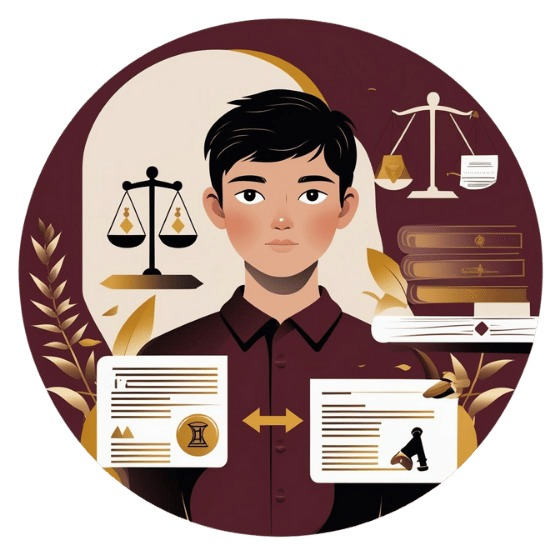
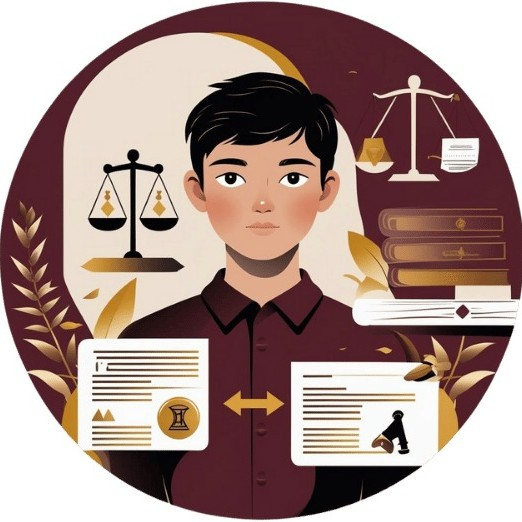
ajuste de layout dos temas 1 , 2 e 3
ajuste de layout das telas dos temas 1 , 2 e 3

diff --git a/screens/telasTemas/secondScreen/QuizCasamento.js b/screens/telasTemas/secondScreen/QuizCasamento.js
@@ -143,7 +143,10 @@ const QuizCasamentoScreen = ({ navigation}) => {
     }
 
     // Junta a análise com o resumo checklist
-    setResultado(resultadoFinal + "\n\n📋 Resumo:\n" + resumo.join("\n"));
+    setResultado({
+      titulo: resultadoFinal, // título principal
+      resumo: resumo,         // lista de itens
+    });
   };
 
 
@@ -156,7 +159,7 @@ const QuizCasamentoScreen = ({ navigation}) => {
       {!finalizado ? (
         <View>
           <Text style={styles.homeTitle}>Teste de reconhacimento para casamento</Text>
-          <View style={styles.card}>
+          <View style={styles.card1}>
             <Image source={require('../../../assets/guiaCasamento/guiaCasamento.png')} style={styles.imagem1} resizeMode="cover"/>
             <Text style={styles.pergunta}>{perguntaAtual.pergunta}</Text>
             <FlatList
@@ -176,12 +179,22 @@ const QuizCasamentoScreen = ({ navigation}) => {
           </View>
         </View>
       ) : (
-        <ScrollView style={styles.resultadoCard}>
+        <View style={styles.card2}>
           <Image source={require('../../../assets/guiaCasamento/imagesFinalGuiaCasamento.png')} style={styles.imagem2} resizeMode="cover"/>
-          <Text style={styles.resultadoTexto}>{resultado}</Text>
+            <Text style={styles.text1}>Resultado do Quiz</Text>
+            <Text style={styles.text2}>Análise sobre possibilidade de união estável</Text>
+            <View style={styles.card3}>
+              <Text style={styles.destaque}>{resultado.titulo}</Text>
+              <Text style={styles.subtitulo}>📋 Resumo:</Text>
+              {resultado.resumo.map((item, index) => (
+                <Text key={index} style={styles.resultadoTexto}>
+                  {item}
+                </Text>
+              ))}
+            </View>
           <View  style={styles.rowButtons}>
             <TouchableOpacity onPress={() => navigation.navigate("TELA3")} >
-              <LinearGradient colors={["#8B4A52", "#5D252A","#5D252A", "#411619ff"]}  end={{ x: 1, y: 1 }}style={styles.quizButton}  >
+              <LinearGradient colors={["#9f676dff", "#5D252A","#5D252A", "#411619ff"]}  end={{ x: 1, y: 1 }}style={styles.quizButton}  >
                 <Text style={styles.buttonText2}>Refazer Quiz</Text>
               </LinearGradient>
             </TouchableOpacity>
@@ -189,7 +202,8 @@ const QuizCasamentoScreen = ({ navigation}) => {
               <Text style={styles.buttonText3}>Voltar Menu Principal</Text>
             </TouchableOpacity>
           </View>
-        </ScrollView>
+          <Text style={styles.text3}>Análise sobre possibilidade de união estavel</Text>
+        </View>
       )}
       <ExitButton goTo="Home" />
     </LinearGradient>
@@ -202,10 +216,22 @@ const styles = StyleSheet.create({
     justifyContent: 'center',
     padding: 20,
   },
-  card: {
+  card1: {
     padding: 10,
     borderRadius: 16,
     backgroundColor: '#fff',
+  },
+  card2: {
+    padding: 15,    
+    borderRadius: 20,
+    backgroundColor:"#8B4A52",
+    elevation: 6,
+  },
+  card3: {
+    padding: 15,    
+    borderRadius: 20,
+    backgroundColor:'#fff',
+    marginBottom:-8,
   },
   pergunta: {
     fontSize: 15,
@@ -239,17 +265,23 @@ const styles = StyleSheet.create({
     color: '#000',
     textAlign: 'center',
   },
-  resultadoCard: {
-    flex: 1,
-    padding: 10,
+  destaque: {
+    fontSize: 13,
+    color: '#000',
+    textAlign: 'justify',
+    fontWeight: "bold",
+    marginBottom: 10
+  },
+  subtitulo: {
+    fontSize: 13,
+    color: '#000',
+    fontWeight: "bold",
   },
   resultadoTexto: {
-    fontSize: 15,
-    color: '#ffffff',
+    fontSize: 13,
+    color: '#000',
     textAlign: 'justify',
-    lineHeight: 22,
-    margin: 10,
-    marginTop: 10,
+    lineHeight: 18,
   },
   imagem1: {
     width: 250,
@@ -265,10 +297,9 @@ const styles = StyleSheet.create({
     height:250,
     borderRadius: 200,
     alignSelf: 'center',
-    borderColor: "#fff",
     borderColor: '#D4AF37',
     borderWidth:5,
-    marginTop:35,
+    marginTop:-10
   },
   startButton2: {
     marginTop: 10,
@@ -292,7 +323,6 @@ const styles = StyleSheet.create({
   rowButtons: {
     flexDirection: "row",
     justifyContent: "center",
-    marginTop: 10,
   }, 
   homeButton: {
     backgroundColor: '#ab8085b2',
@@ -312,6 +342,25 @@ const styles = StyleSheet.create({
   buttonText3: {
     color: "#FFFFFF",
     fontSize: 15,
+  },
+  text1: {
+    textAlign: "center",
+    fontSize: 20,
+    fontWeight: "bold",
+    color: '#D4AF37',
+  },
+  text2: {
+    textAlign: "center",
+    fontSize: 13,
+    fontWeight: "bold",
+    color: "#FFFFFF",
+    marginBottom: 5,
+  },
+  text3: {
+    textAlign: "center",
+    fontSize: 13,
+    color: "#FFFFFF",
+    marginTop: 10,
   },
 
 });

diff --git a/screens/telasTemas/tela1.js b/screens/telasTemas/tela1.js
@@ -107,24 +107,26 @@ const Tela1Screen = ({ navigation }) => {
   // Tela final
   if (finished) {
     return (
-      <LinearGradient
-        colors={["#A67C7C", "#8B4A52", "#5D252A"]}
-        style={styles.container}
-      >
-        <Text style={styles.title2}> 🎉   Parabéns!   🎉  </Text>
-        <Text style={styles.question2}>Você explorou todas as ciriosidades!</Text>
-        <Text style={styles.question3}>Agora você conhece mais sobre ato Infracionais a o ECA!</Text>
-        <View  style={styles.rowButtons}>
+      <LinearGradient colors={["#A67C7C", "#8B4A52", "#5D252A"]} style={styles.container}>
+        <View style={styles.card2}>
+          <View style={styles.container2}>
+           <Text style={styles.question2}>  ✨ Muito bem! ✨  </Text>
+          </View>
+          <Text style={styles.title2}> Você concluiu o quiz </Text>
+          <Text style={styles.question3}>Você explorou todas as curiosidades e ampliou seus conhecimentos sobre os atos infracionais e a proteção ao adolescente no ECA.</Text>
+          <View  style={styles.rowButtons}>
             <TouchableOpacity onPress={handleRestart} >
-              <LinearGradient colors={["#8B4A52", "#5D252A","#5D252A", "#411619ff"]}  end={{ x: 1, y: 1 }}style={styles.quizButton}  >
+              <LinearGradient colors={["#9f676dff", "#5D252A","#5D252A", "#411619ff"]}  end={{ x: 1, y: 1 }}style={styles.quizButton}  >
                 <Text style={styles.buttonText2}>Refazer Quiz</Text>
               </LinearGradient>
             </TouchableOpacity>
             <TouchableOpacity  style={styles.homeButton} onPress={() => navigation.navigate("Home")} >
-              <Text style={styles.buttonText3}>Voltar Menu Principal</Text>
+              <Text style={styles.buttonText3}>Voltar ao Menu </Text>
             </TouchableOpacity>
           </View>
-          <ExitButton goTo="Home" />
+          <Text style={styles.question4}>⚖ Continue aprendendo — conhecimento transforma atitudes.</Text>
+        </View>  
+        <ExitButton goTo="Home" />    
       </LinearGradient>
     );
   }
@@ -134,7 +136,7 @@ const Tela1Screen = ({ navigation }) => {
     <LinearGradient colors={["#A67C7C", "#8B4A52", "#5D252A"]} style={styles.container}>
       <Text style={styles.homeTitle2}>Curiosidades Sobre</Text>
       <Text style={styles.homeTitle3}>Infracionais</Text>
-      <View style={styles.card}>
+      <View style={styles.card1}>
         <Image source={require("../../assets/atosInfracionaisImagem.jpg")} style={styles.homeImg}/>
         <Text style={styles.question1}>{current.question}</Text>
 
@@ -173,7 +175,7 @@ const styles = StyleSheet.create({
   container: {
     flex: 1,
     padding: 20,
-    justifyContent: "center",
+    justifyContent: "center", 
   },
   header: {
     alignSelf: "center",
@@ -213,8 +215,8 @@ const styles = StyleSheet.create({
     resizeMode: "cover",
     borderRadius: 200,
     marginBottom: 10,
-    borderColor: "#fff",
-    borderWidth: 12,
+    borderColor: '#D4AF37',
+    borderWidth: 5,
     alignSelf: 'center',
   },
   descriptionText: {
@@ -222,11 +224,17 @@ const styles = StyleSheet.create({
     textAlign: "center",
     color: "#fff",
   },
-  card: {
+  card1: {
     backgroundColor: "#fff",
     padding: 10,
     borderRadius: 12,
     shadowOffset: { width: 0, height: 2 },
+  },
+  card2: {
+    padding: 25,    
+    borderRadius: 20,
+    backgroundColor:"#8B4A52",
+    elevation: 6,
   },
   title1: {
     fontSize:30,
@@ -236,7 +244,7 @@ const styles = StyleSheet.create({
     textAlign: "center",
   },
   title2: {
-    fontSize:35,
+    fontSize:27,
     fontWeight: "bold",
     marginBottom: 20,
     color: "#FFFFFF",
@@ -256,15 +264,19 @@ const styles = StyleSheet.create({
     borderLeftColor: '#D4AF37',
   },
   question2: {
+    margin:5,
     fontSize: 20,
-    marginBottom: 20,
     color: "#FFFFFF",
-    textAlign: "center",
     fontWeight: "bold",
   },
   question3: {
     fontSize: 12,
-    marginBottom: 20,
+    color: "#FFFFFF",
+    textAlign: "center",
+  },
+  question4: {
+    fontSize: 10,
+    marginTop: 30,
     color: "#FFFFFF",
     textAlign: "center",
   },
@@ -342,6 +354,13 @@ const styles = StyleSheet.create({
     justifyContent: "center",
     marginTop: 10,
   }, 
+  container2: {
+    backgroundColor: '#ab8085b2',
+    borderRadius: 20, 
+    alignSelf: 'center'  ,
+    alignItems: "center",
+    marginBottom: 20,
+  },
   homeButton: {
     backgroundColor: '#ab8085b2',
     padding: 15,

diff --git a/screens/telasTemas/secondScreen/QuizVerdFalso.js b/screens/telasTemas/secondScreen/QuizVerdFalso.js
@@ -318,9 +318,12 @@ const styles = StyleSheet.create({
   imagem1: {
     width: 250,
     height:250,
-    marginTop: -20,
+    marginTop: -10,
     borderRadius: 200,
     alignSelf: 'center',
+    borderColor: '#D4AF37',
+    borderWidth: 5,
+    marginBottom: 10,
   },
   rowButtons: {
     flexDirection: "row",
